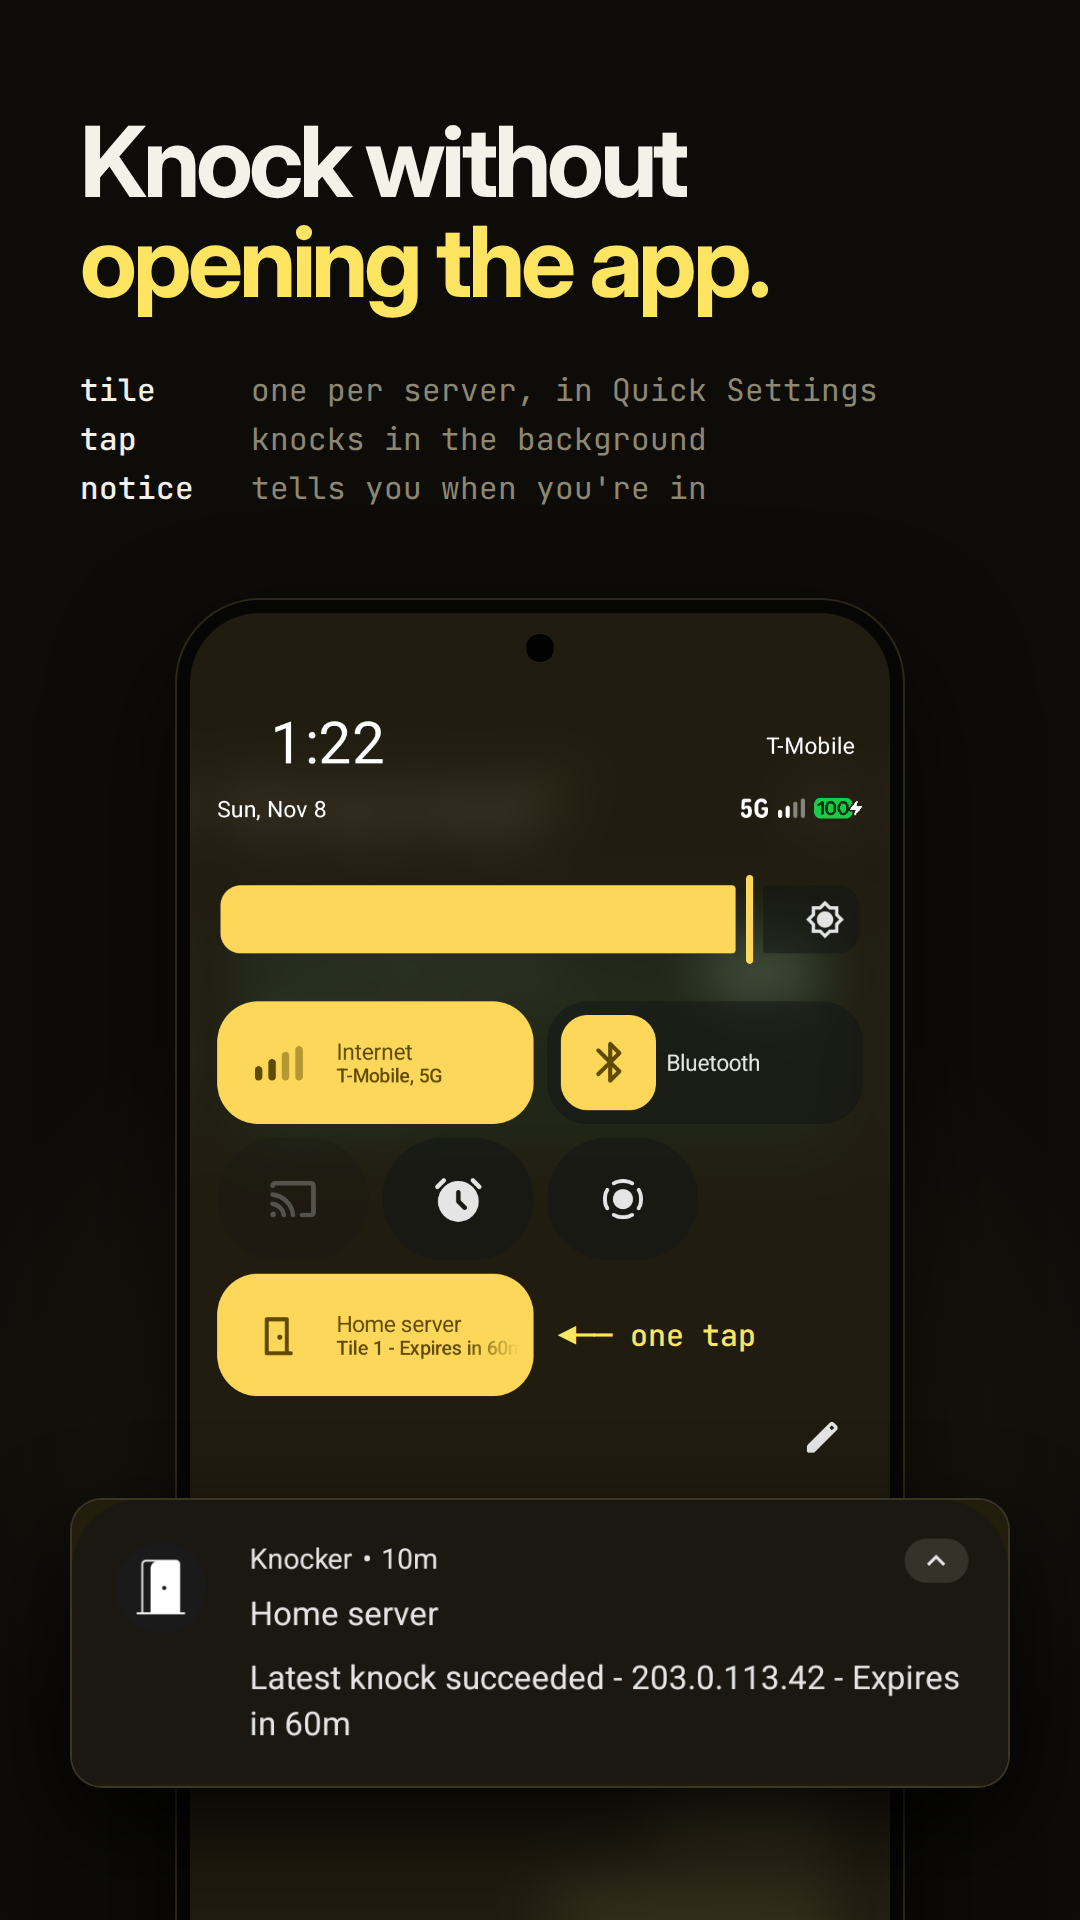
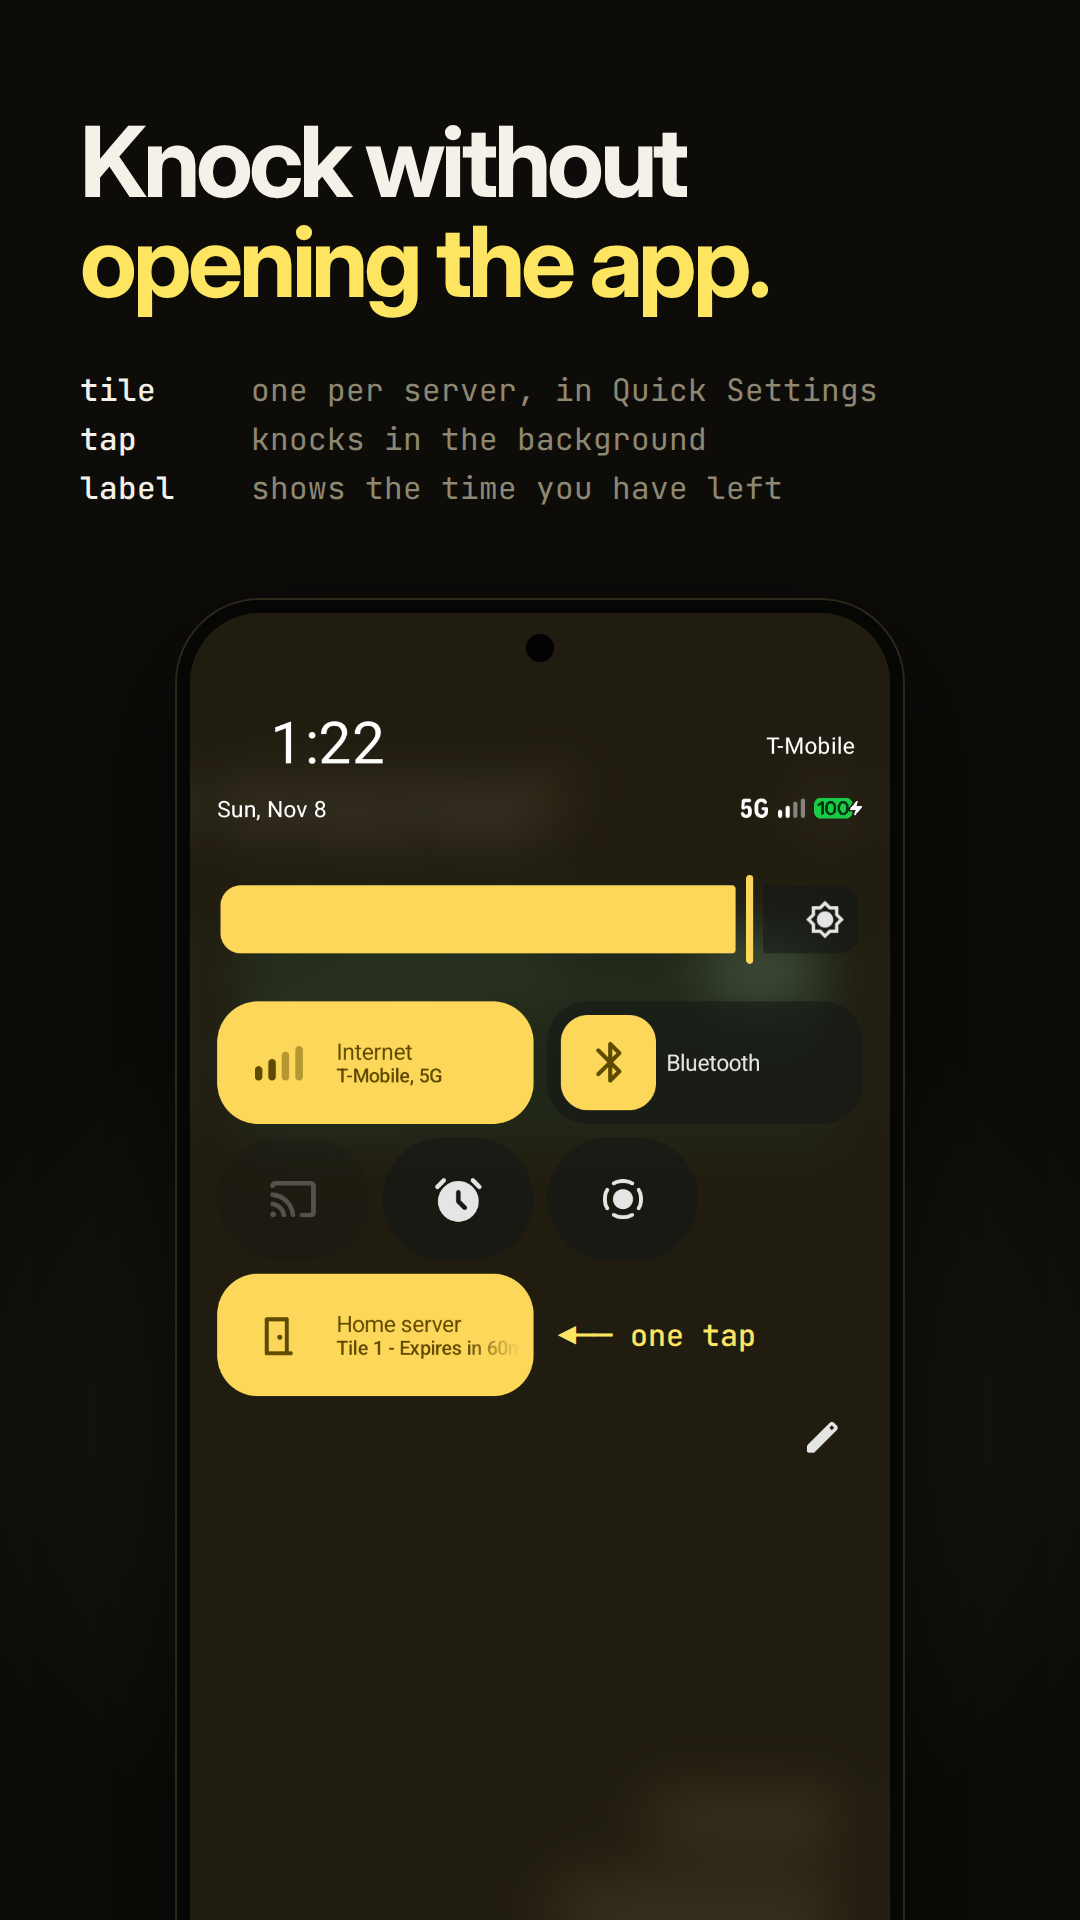
Add fourth Play screenshot and feature graphic
Split the Quick Settings shot so the result notification gets its own
screenshot, giving the phone and tablet sets the four screenshots Play
asks for. On tablet, shots 3 and 4 are one panorama: a tablet runs across
the seam, with Quick Settings on one side and the notification on the
other. Add the 1024x500 feature graphic and show the new files in the
README.

diff --git a/docs/play-store/shots.html b/docs/play-store/shots.html
@@ -96,6 +96,18 @@ pre .r { color: var(--red); }
   box-shadow: 0 0 0 2400px rgba(6,6,5,.62);
 }
 .spot + .note { background: #060605; padding: 6px 10px; border-radius: 8px; }
+
+/* A tablet that continues from one shot into the next; it also runs off the bottom. */
+.tablet.pano { right: auto; top: 130px; }
+.tablet.pano .note { font-size: 30px; }
+#t4 { background: radial-gradient(1100px 820px at 30% 54%, rgba(253,229,98,.09), transparent 70%), var(--bg); }
+#t4 h1, #t4 pre { left: 1010px; }
+
+/* Feature graphic, 1024 x 500. */
+#fg { width: 1024px; height: 500px; background: radial-gradient(520px 420px at 78% 70%, rgba(253,229,98,.1), transparent 70%), var(--bg); }
+#fg h1 { left: 72px; top: 92px; font-size: 68px; }
+#fg pre { left: 72px; top: 342px; font-size: 22px; }
+#fg .phone { left: 618px; }
 </style>
 </head>
 <body>
@@ -123,17 +135,36 @@ pre .r { color: var(--red); }
   <div class="phone" style="--w:700px;top:748px"><div class="screen" style="--img:url(source/renew.png)"></div></div>
 </section>
 
-<!-- 3. Quick Settings tile and the result notification -->
+<!-- 3. Quick Settings tile -->
 <section class="shot" id="s3">
   <h1>Knock without<br><em>opening the app.</em></h1>
 <pre style="top:366px">
 <b>tile  </b>   one per server, in Quick Settings
 <b>tap   </b>   knocks in the background
-<b>notice</b>   tells you when you're in</pre>
+<b>label </b>   shows the time you have left</pre>
   <div class="phone" style="--w:700px;top:600px"><div class="screen" style="--img:url(source/tile.png)">
     <div class="note" style="left:368px;top:707px">◀── one tap</div>
   </div></div>
-  <div class="card" style="left:72px;top:1500px"><div class="crop" style="--img:url(source/notification.png);--cx:42;--cy:1122;--cw:996;--ch:304;--s:.94"></div></div>
+</section>
+
+<!-- 4. Result notifications -->
+<section class="shot" id="s4">
+  <h1>Every knock<br><em>reports back.</em></h1>
+<pre style="top:366px">
+<b>manual   </b>   knocks from the tile
+<b>automatic</b>   renewals and network changes
+<b>silent   </b>   no sound, no pop-up</pre>
+  <div class="phone" style="--w:700px;top:600px"><div class="screen" style="--img:url(source/notification.png)">
+    <div style="position:absolute;left:22px;top:722px;width:656px;height:206px;border-radius:26px 26px 6px 6px;box-shadow:0 0 0 3px var(--yl)"></div>
+  </div></div>
+</section>
+
+<!-- Feature graphic -->
+<section class="shot" id="fg">
+  <h1>Your homelab,<br>locked until<br><em>you knock.</em></h1>
+<pre>
+<b>knock</b> → <b>allowed</b> → <b>expires</b></pre>
+  <div class="phone" style="--w:330px;top:64px"><div class="screen" style="--img:url(source/home.png)"></div></div>
 </section>
 
 <!-- Tablet 1. What Knocker is: home across the whole window, actions in the corner -->
@@ -162,16 +193,26 @@ pre .r { color: var(--red); }
   </div></div>
 </section>
 
-<!-- Tablet 3. Quick Settings tile with its result notification beside it -->
+<!-- Tablet 3 and 4 are one panorama: a large tablet runs across the seam, so 3 shows the
+     Quick Settings half of the shade and 4 continues with the notification half. -->
 <section class="tshot" id="t3">
   <h1>Knock without<br><em>opening<br>the app.</em></h1>
 <pre style="top:476px">
 <b>tile  </b>   one per server, in Quick Settings
 <b>tap   </b>   knocks in the background
-<b>notice</b>   tells you when you're in</pre>
-  <div class="tablet" style="--w:1036px"><div class="screen" style="--img:url(source/tablet-tile.png)">
-    <div class="note" style="left:398px;top:372px">▲ one tap</div>
+<b>label </b>   shows the time you have left</pre>
+  <div class="tablet pano" style="--w:1700px;left:1058px"><div class="screen" style="--img:url(source/tablet-tile.png)">
+    <div class="note" style="left:553px;top:552px">▲ one tap</div>
   </div></div>
+</section>
+
+<section class="tshot" id="t4">
+  <h1>Every knock<br><em>reports back.</em></h1>
+<pre style="top:476px">
+<b>manual   </b>   knocks from the tile
+<b>automatic</b>   renewals and network changes
+<b>silent   </b>   no sound, no pop-up</pre>
+  <div class="tablet pano" style="--w:1700px;left:-862px"><div class="screen" style="--img:url(source/tablet-tile.png)"></div></div>
 </section>
 
 </body>

diff --git a/docs/play-store/render.py b/docs/play-store/render.py
@@ -21,6 +21,8 @@ SHOTS = {
     's1': '01-what-it-is.png',
     's2': '02-auto-renew.png',
     's3': '03-quick-settings.png',
+    's4': '04-notifications.png',
+    'fg': '../feature-graphic.png',
 }
 
 TABLET_OUT = OUT / 'tablet'
@@ -28,6 +30,7 @@ TABLET_SHOTS = {
     't1': '01-what-it-is.png',
     't2': '02-auto-renew.png',
     't3': '03-quick-settings.png',
+    't4': '04-notifications.png',
 }
 
 
@@ -39,7 +42,7 @@ def render(browser, shots, out, viewport, scale):
     page.wait_for_load_state('networkidle')
     for section, name in shots.items():
         page.locator(f'#{section}').screenshot(path=str(out / name))
-        print(f'rendered {out.relative_to(ROOT)}/{name}')
+        print(f'rendered {(out / name).resolve().relative_to(ROOT)}')
     page.close()
 
 

diff --git a/docs/play-store/README.md b/docs/play-store/README.md
@@ -4,27 +4,30 @@ Two sets, each ordered for the listing and written for someone who has never hea
 
 ## Phone
 
-The three 1080 × 1920 PNGs in `screenshots/`:
+The four 1080 × 1920 PNGs in `screenshots/` (Play asks for at least four to be eligible for promotion):
 
 1. `01-what-it-is.png`: the pitch and the three steps of a knock, over the home screen.
 2. `02-auto-renew.png`: how auto-renew recovers access after a network change (new network, new IP, Knocker knocks again), over the profile editor with the Auto-renew switch on.
-3. `03-quick-settings.png`: knocking from the Quick Settings tile, with the result notification.
+3. `03-quick-settings.png`: knocking from the Quick Settings tile.
+4. `04-notifications.png`: the result notification in the shade, outlined in yellow.
+
+`feature-graphic.png` (1024 × 500) is the listing's feature graphic: the headline from shot 1 beside the top of the home screen.
 
 ## 10-inch tablet
 
-The three 2560 × 1440 PNGs in `screenshots/tablet/`, matching the three phone shots. Play asks for 16:9 landscape or 9:16 portrait with every side between 1,080 and 7,680 px. It recommends at least four tablet screenshots, so add a fourth here if large-screen promotion matters. Upload the same set for 7-inch tablets if that slot is used. The set shows both tablet layouts: home across the whole window when nothing is open, and the profile list beside an open profile.
+The four 2560 × 1440 PNGs in `screenshots/tablet/`, matching the four phone shots. Play asks for 16:9 landscape or 9:16 portrait with every side between 1,080 and 7,680 px. It recommends at least four tablet screenshots. Upload the same set for 7-inch tablets if that slot is used. The set shows both tablet layouts: home across the whole window when nothing is open, and the profile list beside an open profile.
 
 1. `01-what-it-is.png`: the pitch and the three steps of a knock, over the full-window home: five whitelisted servers in columns, with Knock all and the pinned knock in the bottom-right corner.
 2. `02-auto-renew.png`: the auto-renew story, with the Auto-renew switch spotlit in Home server's open profile. Home server (auto-renew on) has knocked again from the new address `198.51.100.7`. In the dimmed list, NAS (auto-renew off) still holds its old grant and shows the amber "IP changed · not whitelisted" footer.
-3. `03-quick-settings.png`: the tablet's split shade. The Knocker tile is in Quick Settings and its result notification sits beside it.
+3. `03-quick-settings.png` and 4. `04-notifications.png` are one panorama. A larger tablet runs across the seam between them (and off the bottom), so shot 3 ends on the Quick Settings half of the shade with the Knocker tile, and shot 4 continues with the notification half. Keep them adjacent and in this order in the listing.
 
 ## Artwork
 
-Everything is laid out in `shots.html` and screenshotted by `render.py` with headless Chromium: one `<section class="shot">` per phone image (1080 × 1920 at 1×) and one `<section class="tshot">` per tablet image (1920 × 1080 rendered at 4/3). Every shot uses the same three parts and nothing else:
+Everything is laid out in `shots.html` and screenshotted by `render.py` with headless Chromium: one `<section class="shot">` per phone image (1080 × 1920 at 1×) and one `<section class="tshot">` per tablet image (1920 × 1080 rendered at 4/3). The feature graphic is the `#fg` section. Every shot uses the same three parts and nothing else:
 
 - A headline in Inter Bold with one Knocker-yellow phrase.
 - A short monospace block (JetBrains Mono) that explains the feature in a few aligned lines.
-- An upright device frame around an unaltered Android 16 emulator capture from `source/`: a Pixel 7 for phones, a Pixel Tablet in landscape (2560 × 1600) for tablets. Phone shot 3 adds one unaltered crop of the notification capture, both tile shots add a "one tap" pointer, and tablet shot 2 dims the screen around the Auto-renew row (`.spot`) with a short label.
+- An upright device frame around an unaltered Android 16 emulator capture from `source/`: a Pixel 7 for phones, a Pixel Tablet in landscape (2560 × 1600) for tablets. Both tile shots add a "one tap" pointer, phone shot 4 outlines the Knocker notification, and tablet shot 2 dims the screen around the Auto-renew row (`.spot`) with a short label.
 
 Phone sources: `home.png` and `renew.png` show the native Compose design (top-bar New profile action, list-row editor with the floating Save action). `tile.png` and `notification.png` are system UI and did not change with that redesign. Recapture `home.png` and `renew.png` whenever the home screen or profile editor changes.
 

diff --git a/README.md b/README.md
@@ -18,11 +18,13 @@ The Android client for [Knocker](https://github.com/FarisZR/knocker).
 <br>
 
 <p align="center">
-  <img src="docs/play-store/screenshots/01-what-it-is.png" alt="Home screen: a whitelisted server with a Renew button and a Knock all action" width="30%">
+  <img src="docs/play-store/screenshots/01-what-it-is.png" alt="Home screen: a whitelisted server with a Renew button and a Knock all action" width="23%">
   &nbsp;
-  <img src="docs/play-store/screenshots/02-auto-renew.png" alt="Profile editor with Auto-renew switched on" width="30%">
+  <img src="docs/play-store/screenshots/02-auto-renew.png" alt="Profile editor with Auto-renew switched on" width="23%">
   &nbsp;
-  <img src="docs/play-store/screenshots/03-quick-settings.png" alt="Knocker tile in Quick Settings with a result notification" width="30%">
+  <img src="docs/play-store/screenshots/03-quick-settings.png" alt="Knocker tile in Quick Settings" width="23%">
+  &nbsp;
+  <img src="docs/play-store/screenshots/04-notifications.png" alt="Knock result notification in the notification shade" width="23%">
 </p>
 
 ## Features
@@ -51,7 +53,7 @@ Knocker only talks to the servers you add. Crash reporting is on by default and 
 
 <img src="docs/play-store/screenshots/tablet/01-what-it-is.png" alt="Tablet home screen showing five whitelisted servers in columns">
 <img src="docs/play-store/screenshots/tablet/02-auto-renew.png" alt="Tablet profile list beside an open profile with Auto-renew highlighted">
-<img src="docs/play-store/screenshots/tablet/03-quick-settings.png" alt="Tablet split shade with the Knocker tile and a result notification">
+<img src="docs/play-store/screenshots/tablet/03-quick-settings.png" alt="Left half of the tablet shade with the Knocker tile in Quick Settings" width="49.5%"><img src="docs/play-store/screenshots/tablet/04-notifications.png" alt="Right half of the tablet shade with the knock result notification" width="49.5%">
 
 </details>
 
